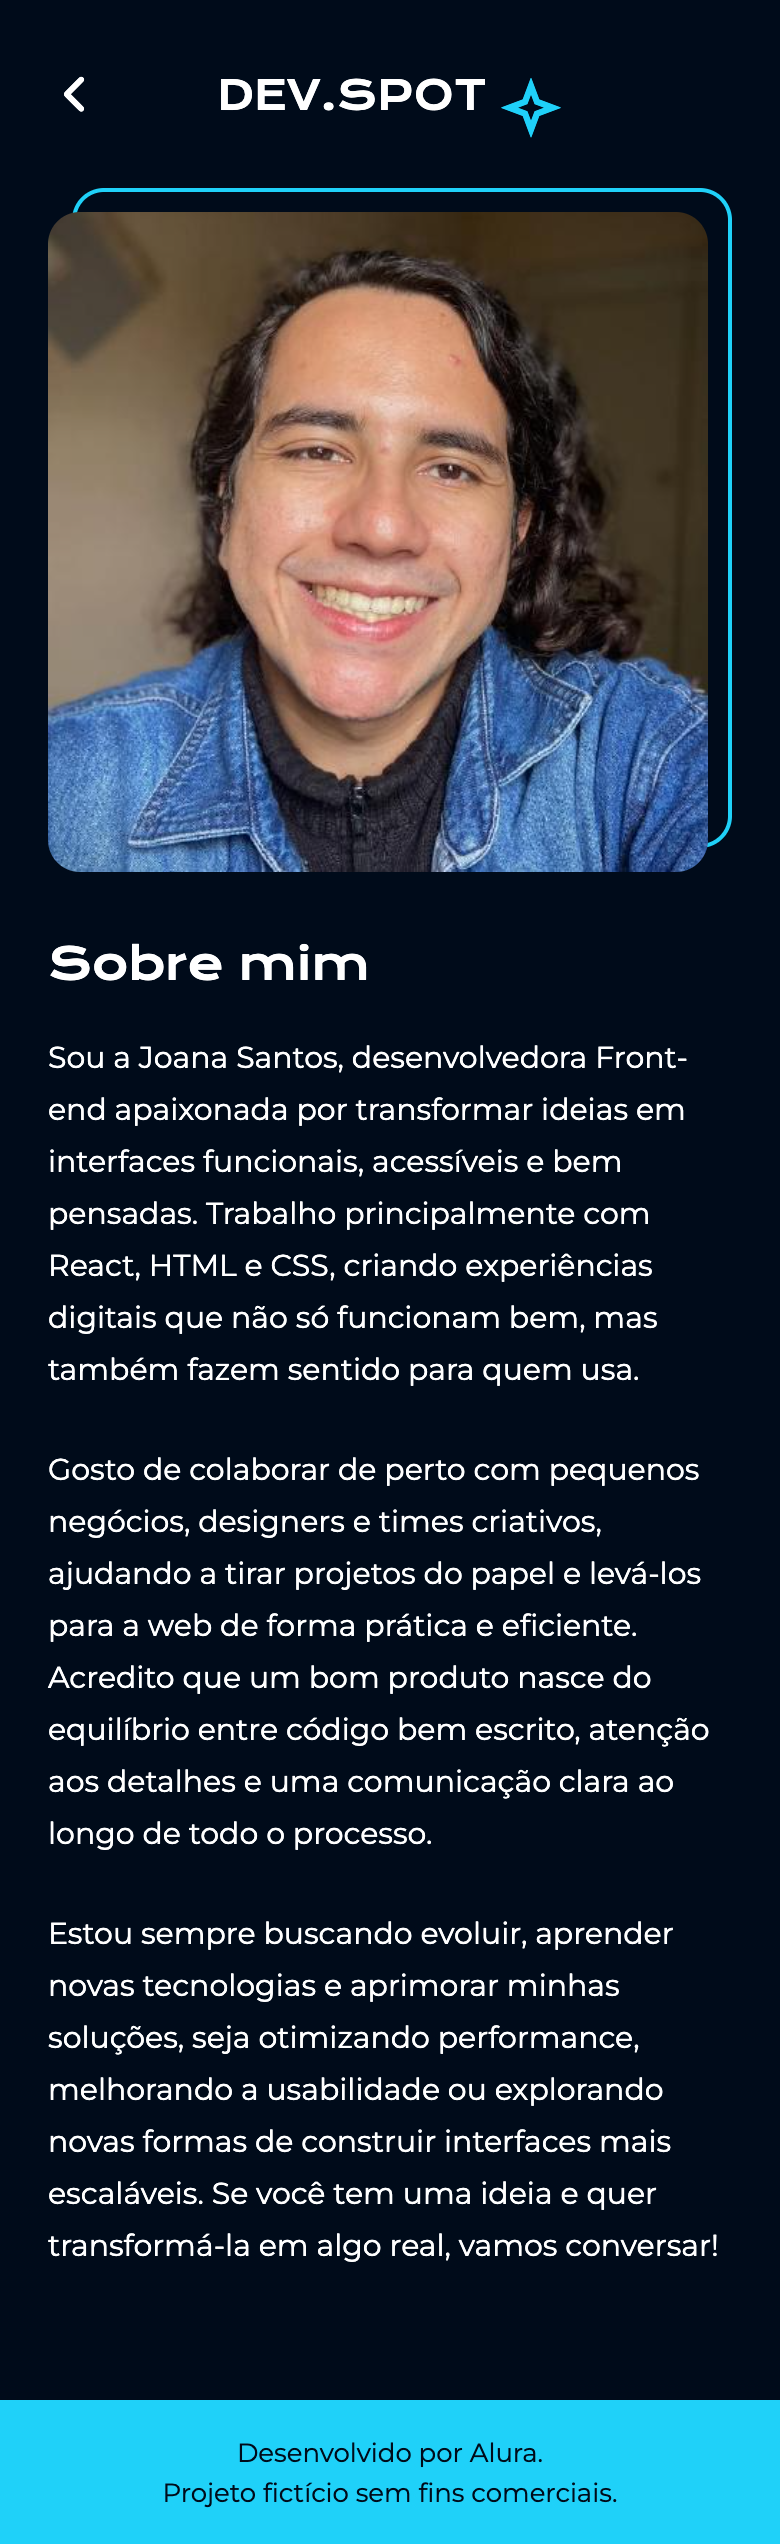
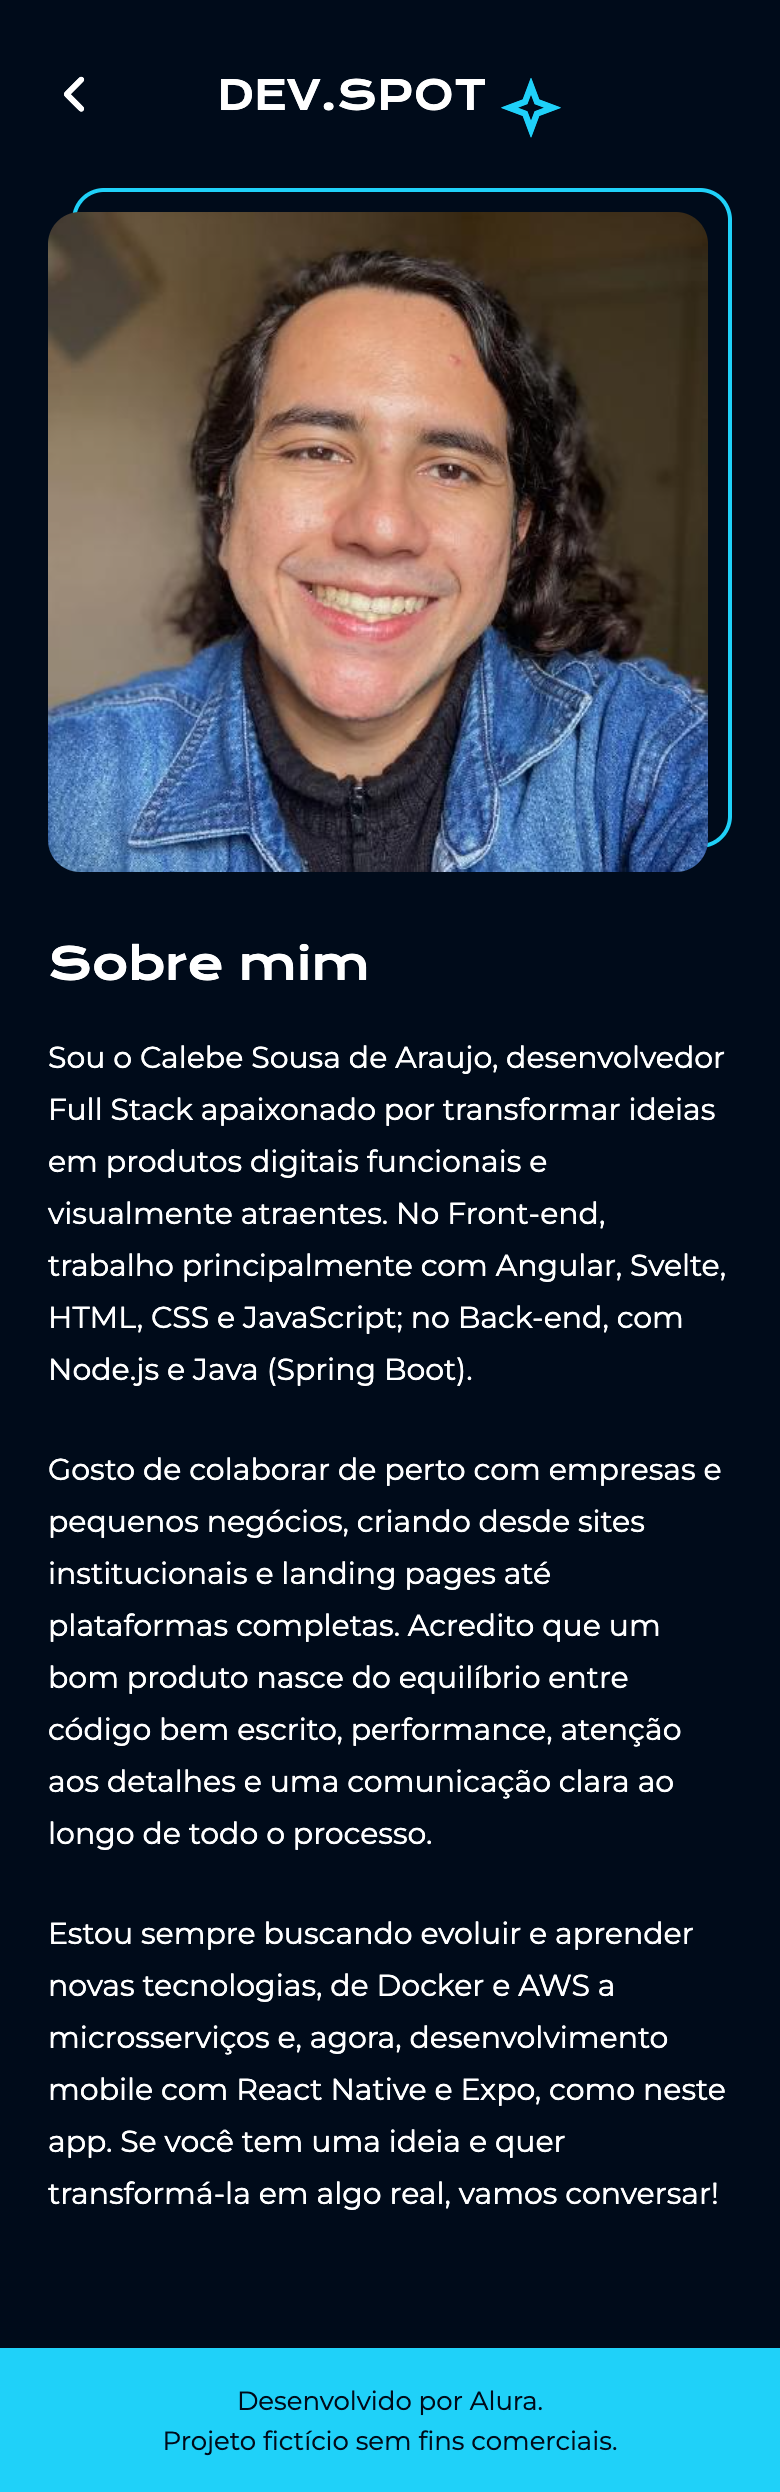
feat: textos de apresentação e biografia do Calebe

Changed region(s): [[0.0615, 0.0309, 0.9538, 0.8961], [0.3077, 0.9579, 0.7077, 0.9888]]

diff --git a/src/data/profile.js b/src/data/profile.js
@@ -1,13 +1,13 @@
 export const profile = {
   photo: require('../assets/images/perfil.jpg'),
   headline: 'Eleve seu negócio digital a outro nível',
-  headlineHighlight: 'com um Front-end de qualidade!',
+  headlineHighlight: 'com código de qualidade!',
   intro:
-    'Olá! Sou Joana Santos, desenvolvedora Front-end com especialidade em React, HTML e CSS. Ajudo pequenos negócios e designers a colocarem em prática boas ideias. Vamos conversar?',
+    'Olá! Sou Calebe Sousa de Araujo, desenvolvedor Full Stack com experiência em Angular, Svelte, Node.js e Java. Ajudo empresas e pequenos negócios a tirarem boas ideias do papel com sites e sistemas rápidos e bem construídos. Vamos conversar?',
   about: [
-    'Sou a Joana Santos, desenvolvedora Front-end apaixonada por transformar ideias em interfaces funcionais, acessíveis e bem pensadas. Trabalho principalmente com React, HTML e CSS, criando experiências digitais que não só funcionam bem, mas também fazem sentido para quem usa.',
-    'Gosto de colaborar de perto com pequenos negócios, designers e times criativos, ajudando a tirar projetos do papel e levá-los para a web de forma prática e eficiente. Acredito que um bom produto nasce do equilíbrio entre código bem escrito, atenção aos detalhes e uma comunicação clara ao longo de todo o processo.',
-    'Estou sempre buscando evoluir, aprender novas tecnologias e aprimorar minhas soluções, seja otimizando performance, melhorando a usabilidade ou explorando novas formas de construir interfaces mais escaláveis. Se você tem uma ideia e quer transformá-la em algo real, vamos conversar!',
+    'Sou o Calebe Sousa de Araujo, desenvolvedor Full Stack apaixonado por transformar ideias em produtos digitais funcionais e visualmente atraentes. No Front-end, trabalho principalmente com Angular, Svelte, HTML, CSS e JavaScript; no Back-end, com Node.js e Java (Spring Boot).',
+    'Gosto de colaborar de perto com empresas e pequenos negócios, criando desde sites institucionais e landing pages até plataformas completas. Acredito que um bom produto nasce do equilíbrio entre código bem escrito, performance, atenção aos detalhes e uma comunicação clara ao longo de todo o processo.',
+    'Estou sempre buscando evoluir e aprender novas tecnologias, de Docker e AWS a microsserviços e, agora, desenvolvimento mobile com React Native e Expo, como neste app. Se você tem uma ideia e quer transformá-la em algo real, vamos conversar!',
   ],
 };
 

diff --git a/README.md b/README.md
@@ -2,7 +2,7 @@
 
 Aplicativo mobile desenvolvido com **Expo + React Native** como trabalho prático da disciplina de Tópicos Especiais.
 
-O app apresenta o portfólio de uma desenvolvedora Front-end em duas telas:
+O app apresenta o portfólio de Calebe Sousa de Araujo, desenvolvedor Full Stack, em duas telas:
 
 - **Home** — logo, foto de perfil, texto de apresentação, botões "Sobre mim" e "Entre em contato!", switch de visualização e links para as redes sociais (GitHub, LinkedIn, Instagram e Twitch).
 - **Sobre mim** — biografia completa e rodapé com créditos.
